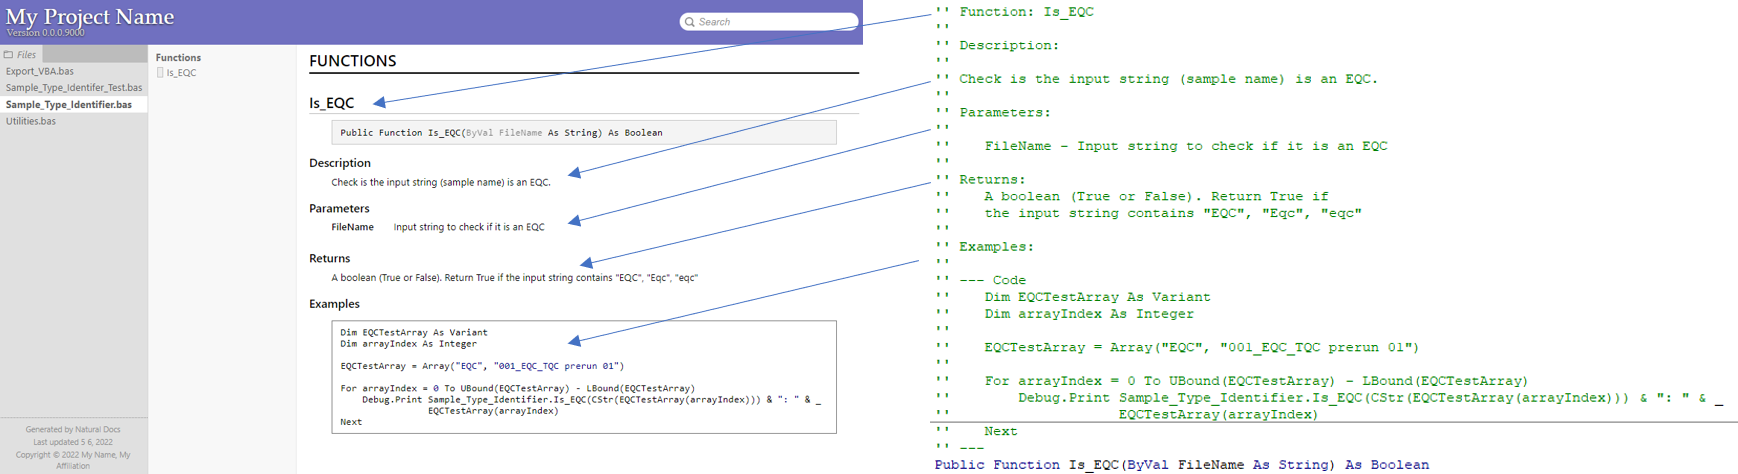
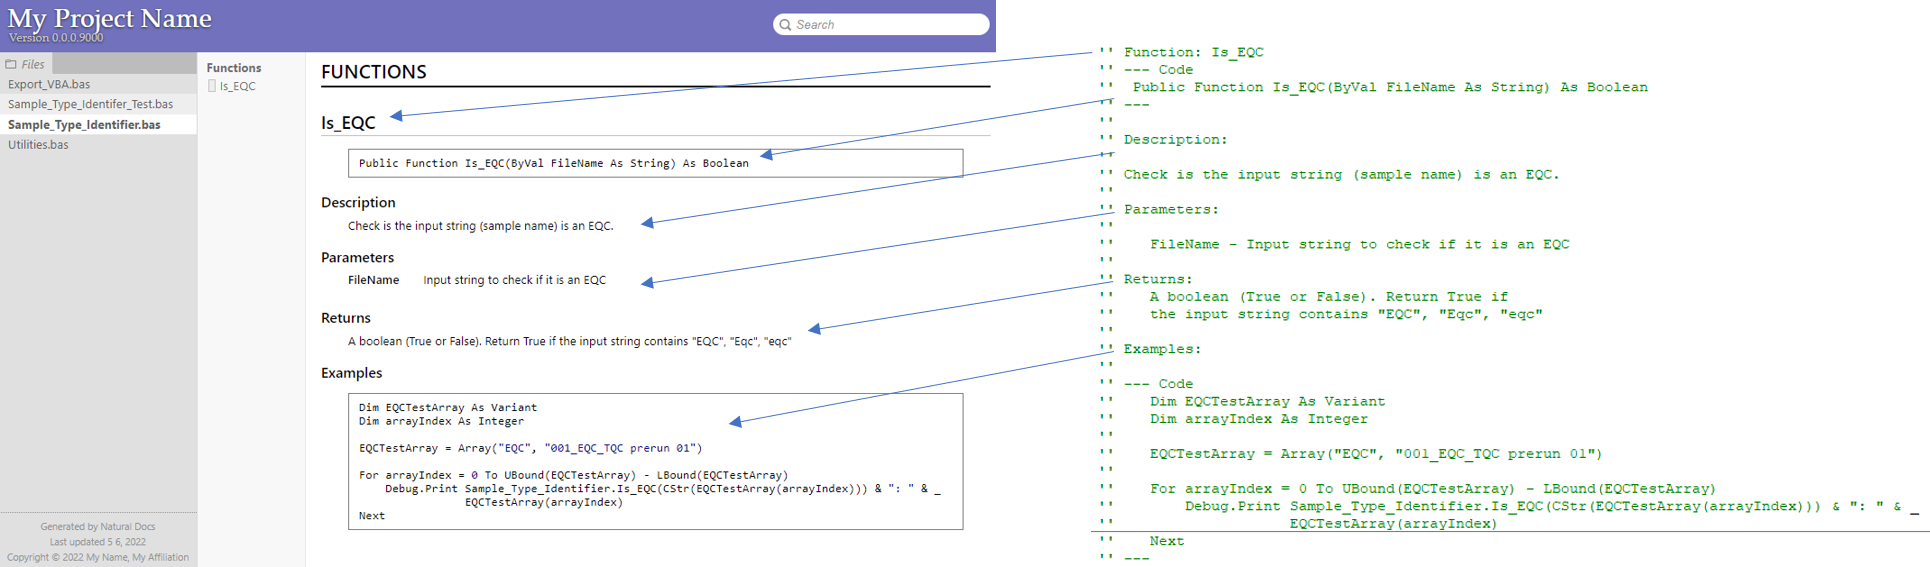
Increase height of sidebar toc

diff --git a/layouts/partials/shared/sidebar/sidebar-toc.html b/layouts/partials/shared/sidebar/sidebar-toc.html
@@ -5,7 +5,7 @@
 {{- $has_headers := ge (len $headers) 1 -}}
 {{- if $has_headers -}}
 <!--insert ToC-->
-<nav id="TableOfContents" class="sticky ph4 pb4 pt6" role="navigation" style="height: 300px; overflow: scroll;">
+<nav id="TableOfContents" class="sticky ph4 pb4 pt6" role="navigation" style="height: 500px; overflow: scroll;">
   <h2 class="mv0 f5 fw7 ttu tracked dib">{{ $page_toc_label }}</h2>
     {{ .TableOfContents }}
 </nav>

diff --git a/content/blog/2022-05-05-Writing-Excel-VBA-Code/index.md b/content/blog/2022-05-05-Writing-Excel-VBA-Code/index.md
@@ -574,6 +574,9 @@ Option Explicit
 '@Description("Export all VBA source codes to a user selected folder.")
 
 '' Function: Export_Visual_Basic_Code
+'' --- Code
+''  Public Sub Export_Visual_Basic_Code()
+'' ---
 ''
 '' Description:
 ''
@@ -655,6 +658,9 @@ Option Explicit
 '@Description("Get the file path of a folder selected by the user.")
 
 '' Function: Get_Folder
+'' --- Code
+''  Public Function Get_Folder() As String
+'' ---
 ''
 '' Description:
 ''
@@ -696,6 +702,9 @@ Option Explicit
 '@Description("Check is the input string (sample name) is an EQC.")
 
 '' Function: Is_EQC
+'' --- Code
+''  Public Function Is_EQC(ByVal FileName As String) As Boolean
+'' ---
 ''
 '' Description:
 ''
@@ -768,6 +777,9 @@ End Sub
 '@Description("Test if Sample_Type_Identifier.Is_EQC is working")
 
 '' Function: Is_EQC_Test
+'' --- Code
+''  Public Sub Is_EQC_Test()
+'' ---
 ''
 '' Description:
 ''
